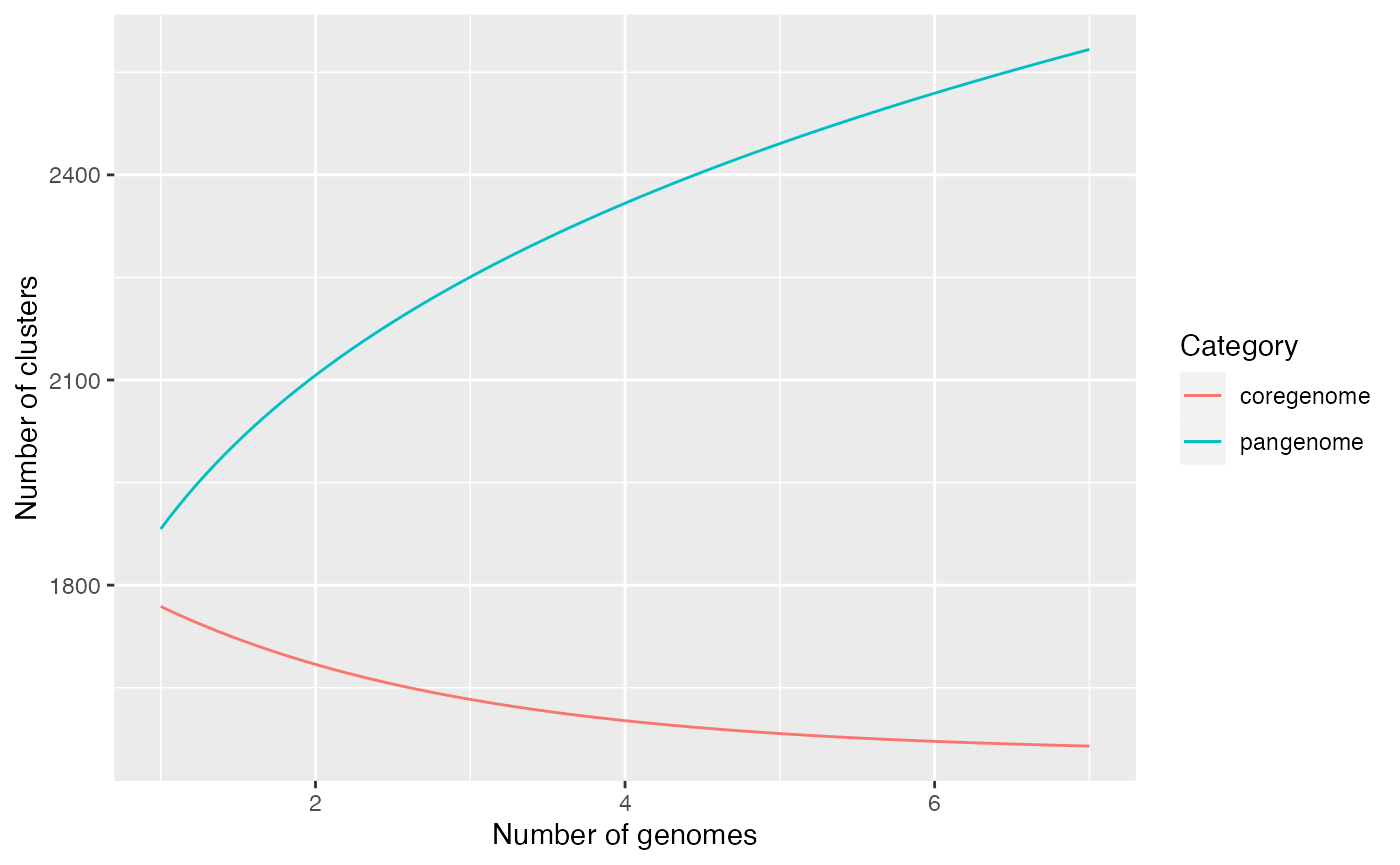
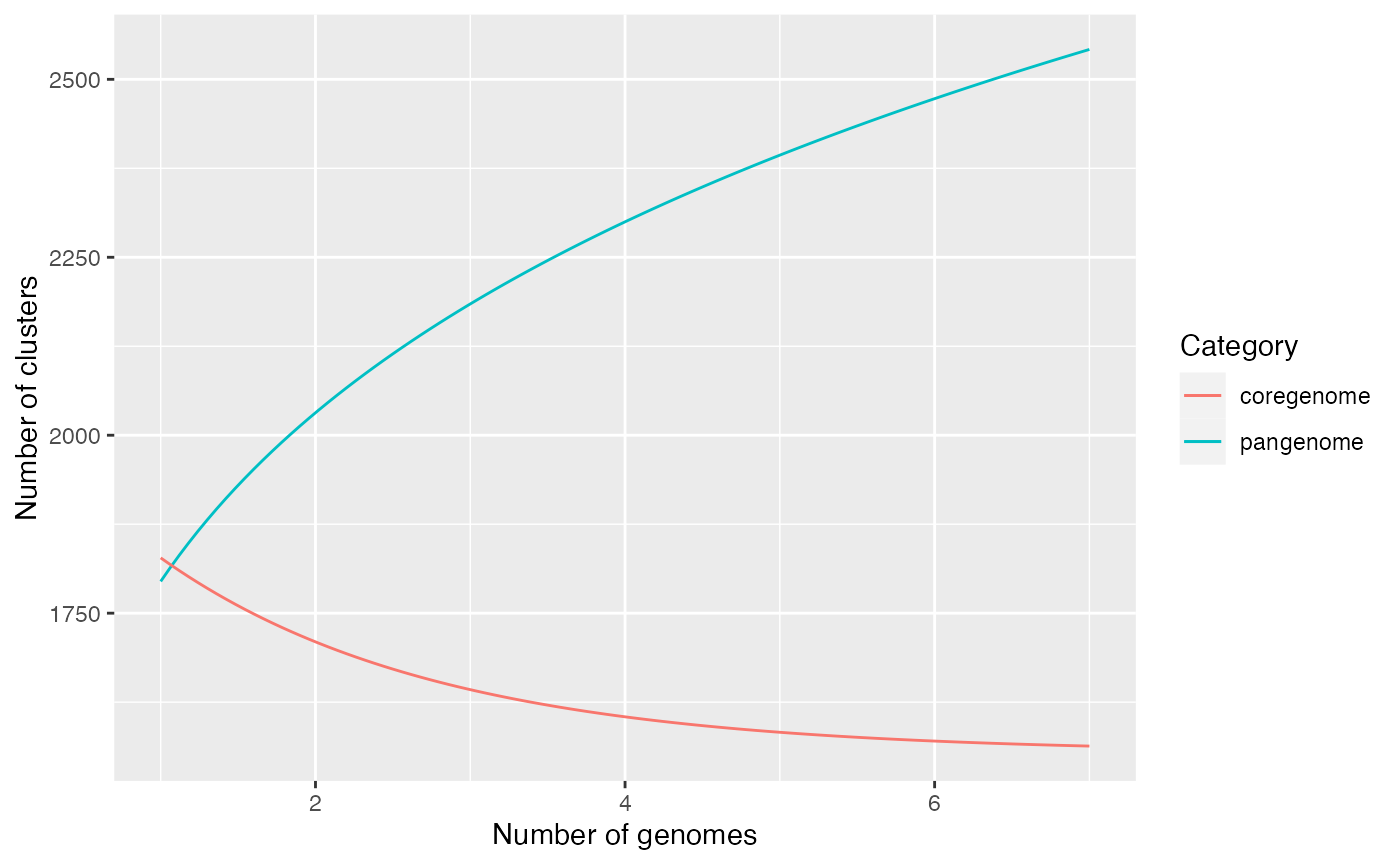
Built site for pagoo: 0.3.16@ecab9ed

diff --git a/articles/Input.html b/articles/Input.html
@@ -39,7 +39,7 @@
       </button>
       <span class="navbar-brand">
         <a class="navbar-link" href="../index.html">pagoo</a>
-        <span class="version label label-default" data-toggle="tooltip" data-placement="bottom" title="">0.3.15</span>
+        <span class="version label label-default" data-toggle="tooltip" data-placement="bottom" title="">0.3.16</span>
       </span>
     </div>
 
@@ -120,14 +120,14 @@
 <span><span class="fu"><a href="https://rdrr.io/r/utils/untar.html" class="external-link">untar</a></span><span class="op">(</span>tarfile <span class="op">=</span> <span class="va">tgz</span>, exdir <span class="op">=</span> <span class="fu"><a href="https://rdrr.io/r/base/tempfile.html" class="external-link">tempdir</a></span><span class="op">(</span><span class="op">)</span><span class="op">)</span> <span class="co"># Decompress example dataset</span></span>
 <span><span class="va">files</span> <span class="op">&lt;-</span> <span class="fu"><a href="https://rdrr.io/r/base/list.files.html" class="external-link">list.files</a></span><span class="op">(</span>path <span class="op">=</span> <span class="fu"><a href="https://rdrr.io/r/base/tempfile.html" class="external-link">tempdir</a></span><span class="op">(</span><span class="op">)</span>, full.names <span class="op">=</span> <span class="cn">TRUE</span>, pattern <span class="op">=</span> <span class="st">'tsv$|fasta$'</span><span class="op">)</span> <span class="co"># List files</span></span>
 <span><span class="va">files</span></span></code></pre></div>
-<pre><code><span><span class="co">## [1] "/var/folders/24/8k48jl6d249_n_qfxwsl6xvm0000gn/T//Rtmp5l54yA/case_clusters_meta.tsv"</span></span>
-<span><span class="co">## [2] "/var/folders/24/8k48jl6d249_n_qfxwsl6xvm0000gn/T//Rtmp5l54yA/case_df.tsv"           </span></span>
-<span><span class="co">## [3] "/var/folders/24/8k48jl6d249_n_qfxwsl6xvm0000gn/T//Rtmp5l54yA/case_orgs_meta.tsv"    </span></span>
-<span><span class="co">## [4] "/var/folders/24/8k48jl6d249_n_qfxwsl6xvm0000gn/T//Rtmp5l54yA/organismA.fasta"       </span></span>
-<span><span class="co">## [5] "/var/folders/24/8k48jl6d249_n_qfxwsl6xvm0000gn/T//Rtmp5l54yA/organismB.fasta"       </span></span>
-<span><span class="co">## [6] "/var/folders/24/8k48jl6d249_n_qfxwsl6xvm0000gn/T//Rtmp5l54yA/organismC.fasta"       </span></span>
-<span><span class="co">## [7] "/var/folders/24/8k48jl6d249_n_qfxwsl6xvm0000gn/T//Rtmp5l54yA/organismD.fasta"       </span></span>
-<span><span class="co">## [8] "/var/folders/24/8k48jl6d249_n_qfxwsl6xvm0000gn/T//Rtmp5l54yA/organismE.fasta"</span></span></code></pre>
+<pre><code><span><span class="co">## [1] "/var/folders/24/8k48jl6d249_n_qfxwsl6xvm0000gn/T//Rtmpuv9rY3/case_clusters_meta.tsv"</span></span>
+<span><span class="co">## [2] "/var/folders/24/8k48jl6d249_n_qfxwsl6xvm0000gn/T//Rtmpuv9rY3/case_df.tsv"           </span></span>
+<span><span class="co">## [3] "/var/folders/24/8k48jl6d249_n_qfxwsl6xvm0000gn/T//Rtmpuv9rY3/case_orgs_meta.tsv"    </span></span>
+<span><span class="co">## [4] "/var/folders/24/8k48jl6d249_n_qfxwsl6xvm0000gn/T//Rtmpuv9rY3/organismA.fasta"       </span></span>
+<span><span class="co">## [5] "/var/folders/24/8k48jl6d249_n_qfxwsl6xvm0000gn/T//Rtmpuv9rY3/organismB.fasta"       </span></span>
+<span><span class="co">## [6] "/var/folders/24/8k48jl6d249_n_qfxwsl6xvm0000gn/T//Rtmpuv9rY3/organismC.fasta"       </span></span>
+<span><span class="co">## [7] "/var/folders/24/8k48jl6d249_n_qfxwsl6xvm0000gn/T//Rtmpuv9rY3/organismD.fasta"       </span></span>
+<span><span class="co">## [8] "/var/folders/24/8k48jl6d249_n_qfxwsl6xvm0000gn/T//Rtmpuv9rY3/organismE.fasta"</span></span></code></pre>
 <p>The file we need now is <code>case_df.tsv</code>. Lets load it and see what’s its structure:</p>
 <div class="sourceCode" id="cb3"><pre class="downlit sourceCode r">
 <code class="sourceCode R"><span><span class="va">data_file</span> <span class="op">&lt;-</span> <span class="fu"><a href="https://rdrr.io/r/base/grep.html" class="external-link">grep</a></span><span class="op">(</span><span class="st">"case_df.tsv"</span>, <span class="va">files</span>, value <span class="op">=</span> <span class="cn">TRUE</span><span class="op">)</span></span>
@@ -276,9 +276,9 @@
 <code class="sourceCode R"><span><span class="va">tmp</span> <span class="op">&lt;-</span> <span class="fu"><a href="https://rdrr.io/pkg/BiocGenerics/man/paste.html" class="external-link">paste</a></span><span class="op">(</span><span class="fu"><a href="https://rdrr.io/r/base/tempfile.html" class="external-link">tempdir</a></span><span class="op">(</span><span class="op">)</span>, <span class="st">"pangenome"</span>, sep <span class="op">=</span> <span class="st">"/"</span><span class="op">)</span></span>
 <span><span class="va">p</span><span class="op">$</span><span class="fu">write_pangenome</span><span class="op">(</span>dir <span class="op">=</span> <span class="va">tmp</span><span class="op">)</span></span>
 <span><span class="fu"><a href="https://rdrr.io/r/base/list.files.html" class="external-link">list.files</a></span><span class="op">(</span><span class="va">tmp</span>, full.names <span class="op">=</span> <span class="cn">TRUE</span><span class="op">)</span></span></code></pre></div>
-<pre><code><span><span class="co">## [1] "/var/folders/24/8k48jl6d249_n_qfxwsl6xvm0000gn/T//Rtmp5l54yA/pangenome/clusters.tsv" </span></span>
-<span><span class="co">## [2] "/var/folders/24/8k48jl6d249_n_qfxwsl6xvm0000gn/T//Rtmp5l54yA/pangenome/data.tsv"     </span></span>
-<span><span class="co">## [3] "/var/folders/24/8k48jl6d249_n_qfxwsl6xvm0000gn/T//Rtmp5l54yA/pangenome/organisms.tsv"</span></span></code></pre>
+<pre><code><span><span class="co">## [1] "/var/folders/24/8k48jl6d249_n_qfxwsl6xvm0000gn/T//Rtmpuv9rY3/pangenome/clusters.tsv" </span></span>
+<span><span class="co">## [2] "/var/folders/24/8k48jl6d249_n_qfxwsl6xvm0000gn/T//Rtmpuv9rY3/pangenome/data.tsv"     </span></span>
+<span><span class="co">## [3] "/var/folders/24/8k48jl6d249_n_qfxwsl6xvm0000gn/T//Rtmpuv9rY3/pangenome/organisms.tsv"</span></span></code></pre>
 <p>This creates a directory with 3 text files. The advantage of this approach is that you can analyze it outside R, the disadvantage is that from a reproducibility point of view reading text could be less stable since class or number precision can be lost, and also you can’t save the state of the object in any given time. Only available organisms/genes/clusters are saved, and if you reload the class using the tsv files, any previously dropped organisms/gene/cluster won’t be available any more. (For information about dropping/recovering organisms, see “Subset” tutorial).</p>
 <p>If you want to save the object and continue working with it in other R session, we recommend to save them as R objects with the RDS methods provided:</p>
 <div class="sourceCode" id="cb23"><pre class="downlit sourceCode r">

diff --git a/news/index.html b/news/index.html
@@ -23,7 +23,7 @@
       </button>
       <span class="navbar-brand">
         <a class="navbar-link" href="../index.html">pagoo</a>
-        <span class="version label label-default" data-toggle="tooltip" data-placement="bottom" title="">0.3.15</span>
+        <span class="version label label-default" data-toggle="tooltip" data-placement="bottom" title="">0.3.16</span>
       </span>
     </div>
 
@@ -78,6 +78,9 @@
       <small>Source: <a href="https://github.com/iferres/pagoo/blob/HEAD/NEWS.md" class="external-link"><code>NEWS.md</code></a></small>
     </div>
 
+    <div class="section level2">
+<h2 class="page-header" data-toc-text="0.3.16" id="pagoo-0316">pagoo 0.3.16<a class="anchor" aria-label="anchor" href="#pagoo-0316"></a></h2>
+<ul><li>Fixed <a href="https://github.com/iferres/pagoo/issues/57" class="external-link">#57</a>: panaroo_2_pagoo issue. Was a pattern matching bug.</li></ul></div>
     <div class="section level2">
 <h2 class="page-header" data-toc-text="0.3.15" id="pagoo-0315">pagoo 0.3.15<a class="anchor" aria-label="anchor" href="#pagoo-0315"></a></h2>
 <ul><li>Fixed <a href="https://github.com/iferres/pagoo/issues/57" class="external-link">#57</a>: panaroo_2_pagoo issue.</li></ul></div>

diff --git a/reference/PgR6.html b/reference/PgR6.html
@@ -25,7 +25,7 @@ instead of this, since is more easy to understand."><!-- mathjax --><script src=
       </button>
       <span class="navbar-brand">
         <a class="navbar-link" href="../index.html">pagoo</a>
-        <span class="version label label-default" data-toggle="tooltip" data-placement="bottom" title="">0.3.15</span>
+        <span class="version label label-default" data-toggle="tooltip" data-placement="bottom" title="">0.3.16</span>
       </span>
     </div>
 

diff --git a/reference/PgR6M.html b/reference/PgR6M.html
@@ -25,7 +25,7 @@ Inherits: PgR6"><!-- mathjax --><script src="https://cdnjs.cloudflare.com/ajax/l
       </button>
       <span class="navbar-brand">
         <a class="navbar-link" href="../index.html">pagoo</a>
-        <span class="version label label-default" data-toggle="tooltip" data-placement="bottom" title="">0.3.15</span>
+        <span class="version label label-default" data-toggle="tooltip" data-placement="bottom" title="">0.3.16</span>
       </span>
     </div>
 

diff --git a/reference/pagoo.html b/reference/pagoo.html
@@ -28,7 +28,7 @@ the latter. See below for more details."><!-- mathjax --><script src="https://cd
       </button>
       <span class="navbar-brand">
         <a class="navbar-link" href="../index.html">pagoo</a>
-        <span class="version label label-default" data-toggle="tooltip" data-placement="bottom" title="">0.3.15</span>
+        <span class="version label label-default" data-toggle="tooltip" data-placement="bottom" title="">0.3.16</span>
       </span>
     </div>
 

diff --git a/reference/panaroo_2_pagoo.html b/reference/panaroo_2_pagoo.html
@@ -29,7 +29,7 @@ current version, this function discards those genes."><!-- mathjax --><script sr
       </button>
       <span class="navbar-brand">
         <a class="navbar-link" href="../index.html">pagoo</a>
-        <span class="version label label-default" data-toggle="tooltip" data-placement="bottom" title="">0.3.15</span>
+        <span class="version label label-default" data-toggle="tooltip" data-placement="bottom" title="">0.3.16</span>
       </span>
     </div>
 

diff --git a/reference/roary_2_pagoo.html b/reference/roary_2_pagoo.html
@@ -27,7 +27,7 @@ empty the gffs argument)."><!-- mathjax --><script src="https://cdnjs.cloudflare
       </button>
       <span class="navbar-brand">
         <a class="navbar-link" href="../index.html">pagoo</a>
-        <span class="version label label-default" data-toggle="tooltip" data-placement="bottom" title="">0.3.15</span>
+        <span class="version label label-default" data-toggle="tooltip" data-placement="bottom" title="">0.3.16</span>
       </span>
     </div>
 

diff --git a/reference/load_pangenomeRDS.html b/reference/load_pangenomeRDS.html
@@ -26,7 +26,7 @@ states, i.e : dropped/recovered organisms are conserved, as well as the
       </button>
       <span class="navbar-brand">
         <a class="navbar-link" href="../index.html">pagoo</a>
-        <span class="version label label-default" data-toggle="tooltip" data-placement="bottom" title="">0.3.15</span>
+        <span class="version label label-default" data-toggle="tooltip" data-placement="bottom" title="">0.3.16</span>
       </span>
     </div>
 

diff --git a/reference/PgR6MS.html b/reference/PgR6MS.html
@@ -25,7 +25,7 @@ instead of this, since is more easy to understand.
       </button>
       <span class="navbar-brand">
         <a class="navbar-link" href="../index.html">pagoo</a>
-        <span class="version label label-default" data-toggle="tooltip" data-placement="bottom" title="">0.3.15</span>
+        <span class="version label label-default" data-toggle="tooltip" data-placement="bottom" title="">0.3.16</span>
       </span>
     </div>
 

diff --git a/articles/Methods_Plots.html b/articles/Methods_Plots.html
@@ -39,7 +39,7 @@
       </button>
       <span class="navbar-brand">
         <a class="navbar-link" href="../index.html">pagoo</a>
-        <span class="version label label-default" data-toggle="tooltip" data-placement="bottom" title="">0.3.15</span>
+        <span class="version label label-default" data-toggle="tooltip" data-placement="bottom" title="">0.3.16</span>
       </span>
     </div>
 

diff --git a/articles/Querying_Data.html b/articles/Querying_Data.html
@@ -39,7 +39,7 @@
       </button>
       <span class="navbar-brand">
         <a class="navbar-link" href="../index.html">pagoo</a>
-        <span class="version label label-default" data-toggle="tooltip" data-placement="bottom" title="">0.3.15</span>
+        <span class="version label label-default" data-toggle="tooltip" data-placement="bottom" title="">0.3.16</span>
       </span>
     </div>
 

diff --git a/articles/Recipes.html b/articles/Recipes.html
@@ -39,7 +39,7 @@
       </button>
       <span class="navbar-brand">
         <a class="navbar-link" href="../index.html">pagoo</a>
-        <span class="version label label-default" data-toggle="tooltip" data-placement="bottom" title="">0.3.15</span>
+        <span class="version label label-default" data-toggle="tooltip" data-placement="bottom" title="">0.3.16</span>
       </span>
     </div>
 
